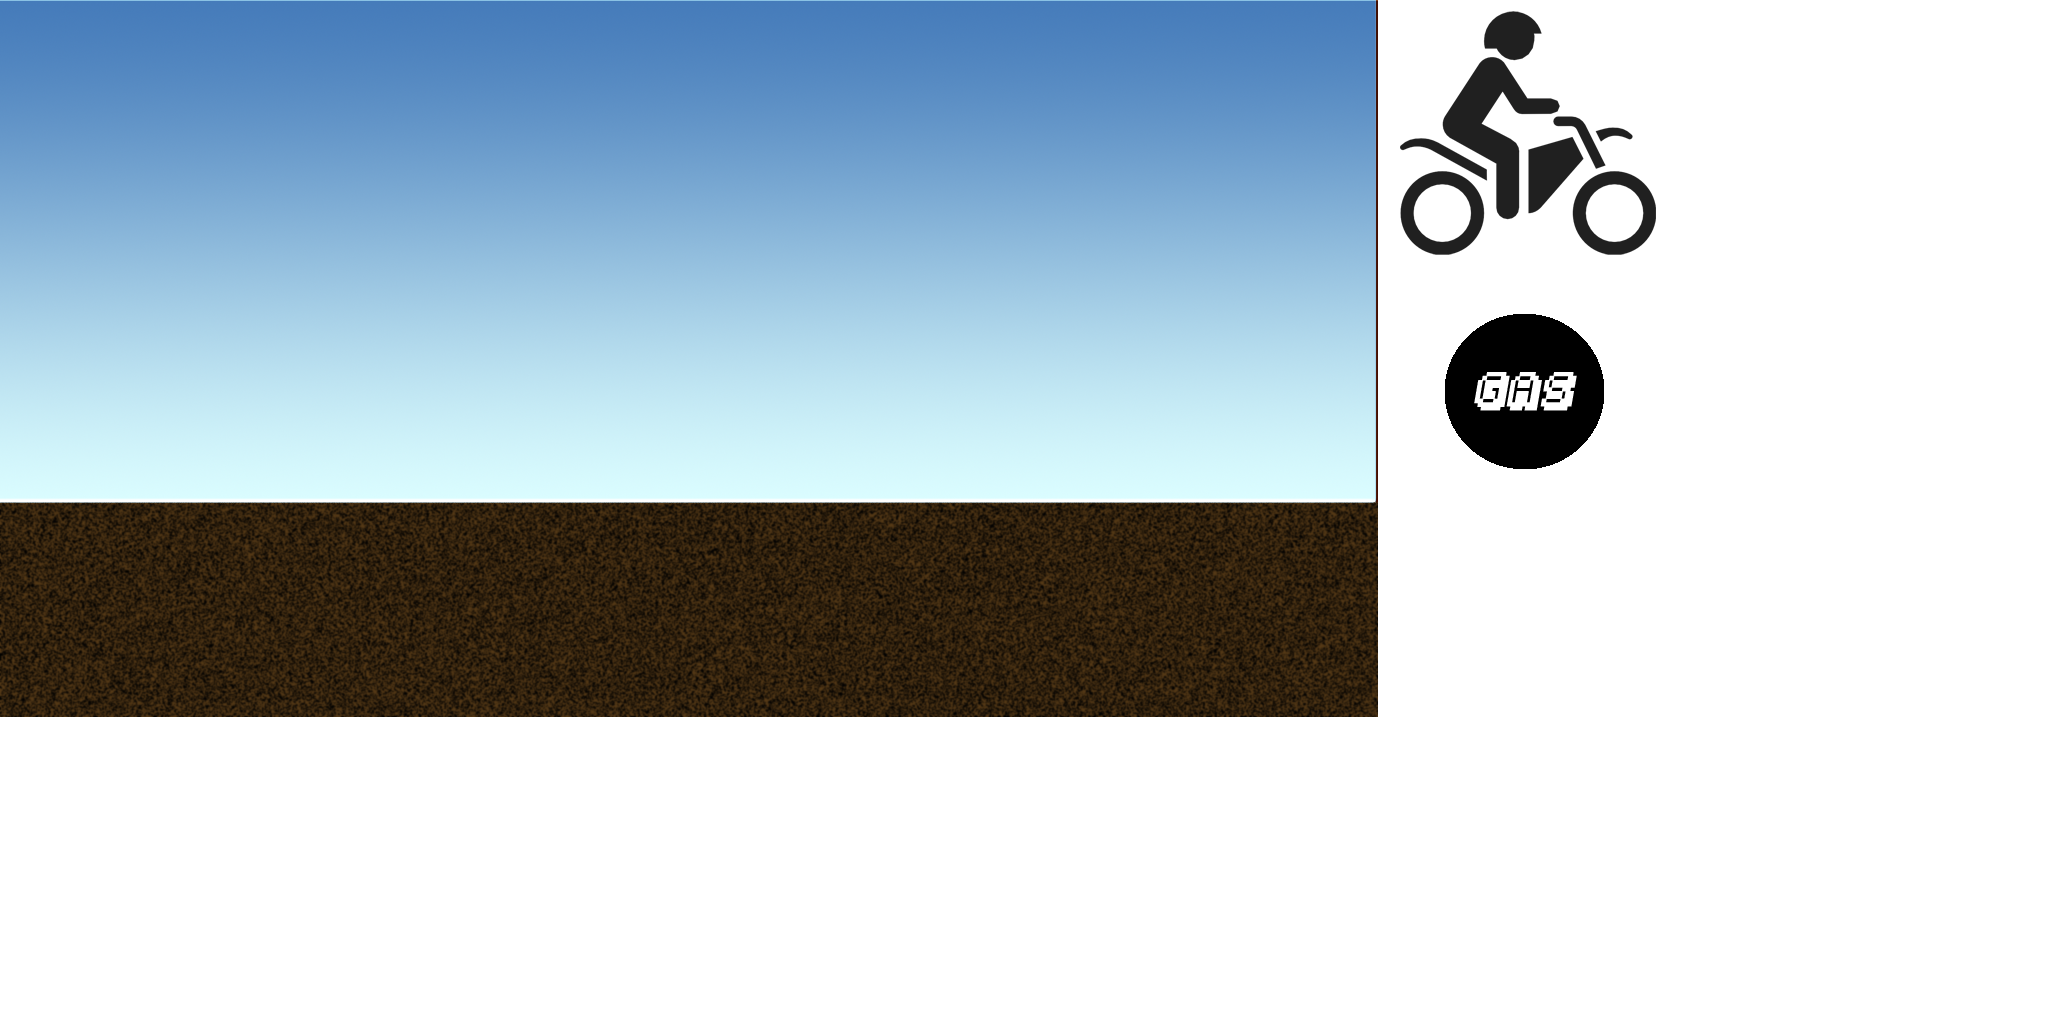
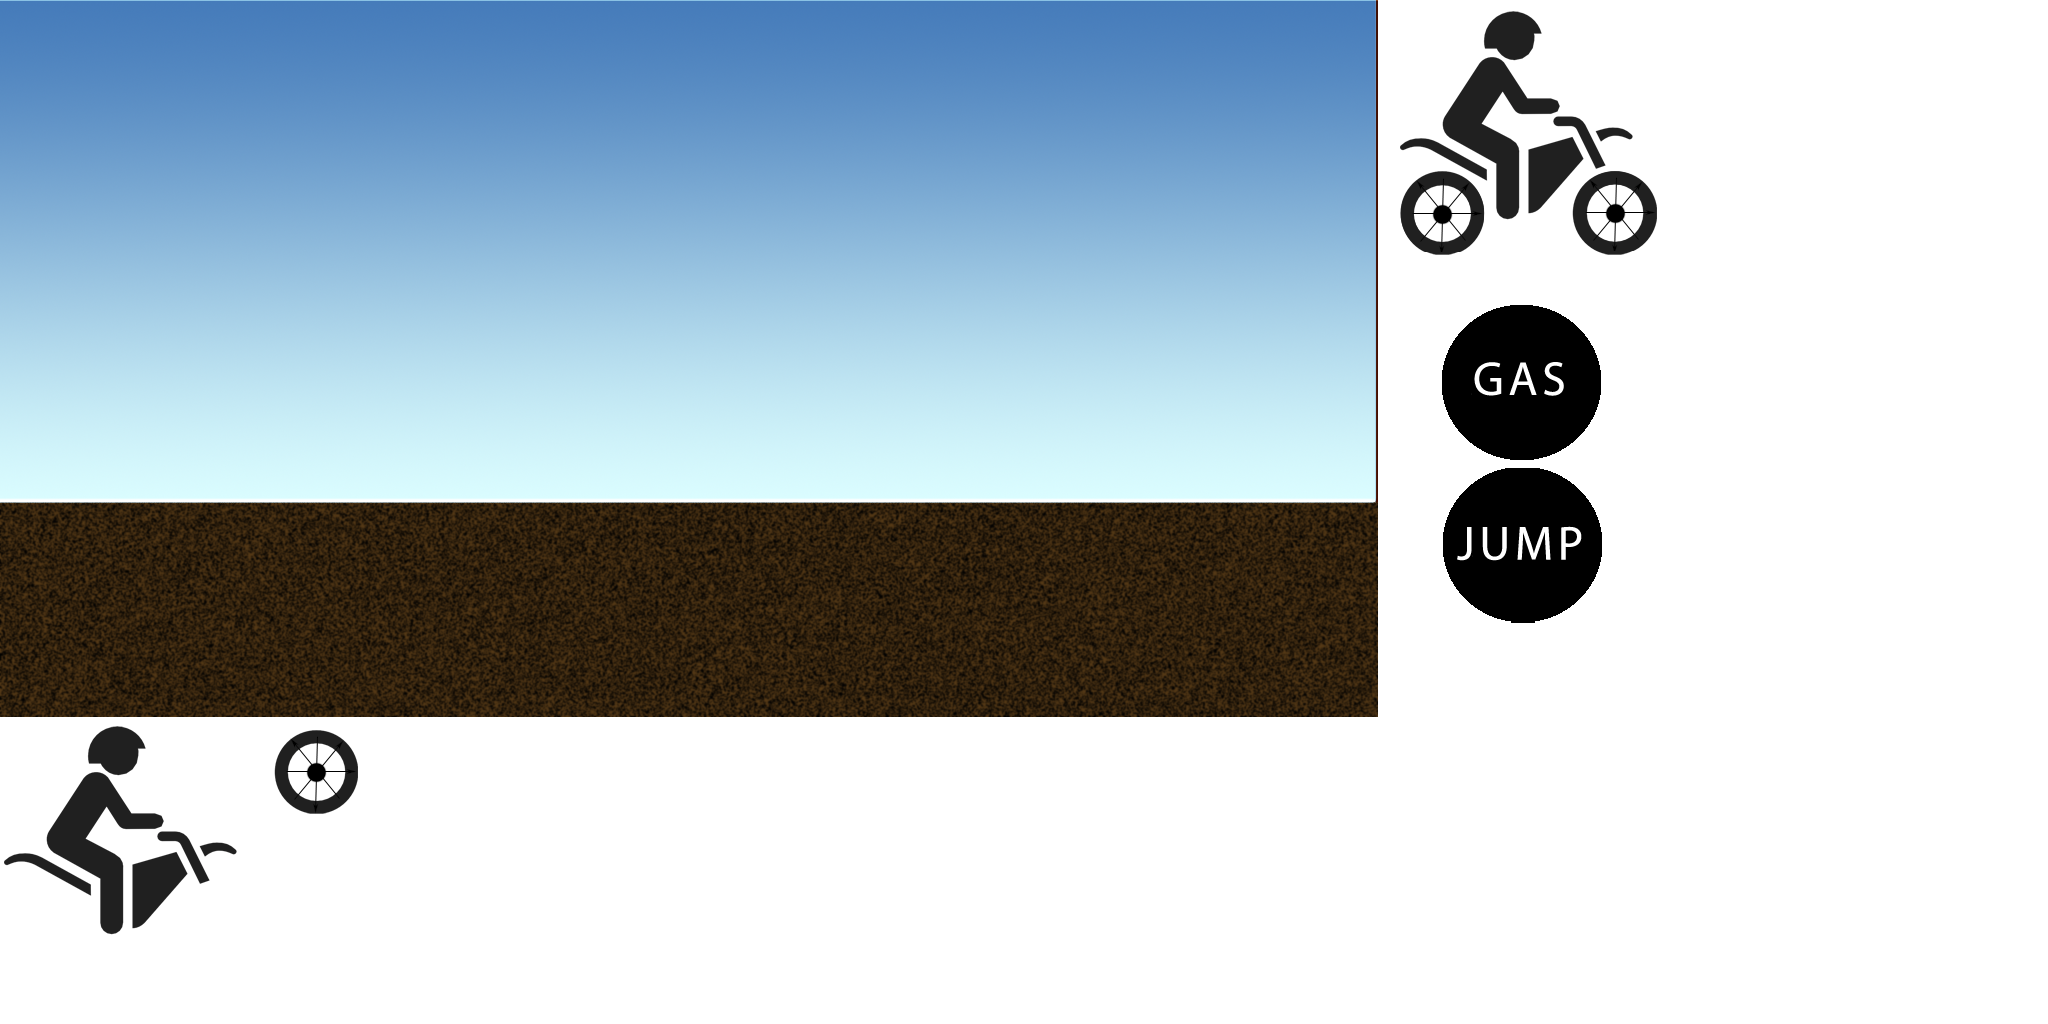
Adds new assets for dirtBike. Splits up dirtbike image into 3 sections (bike,front wheel, rear wheel) Adds animation of wheels when gas is pressed. Collision of bike with obstacles currently needs fixed.

diff --git a/vergegl/src/com/dbz/verge/microgames/DirtBikeMicroGame.java b/vergegl/src/com/dbz/verge/microgames/DirtBikeMicroGame.java
@@ -18,19 +18,23 @@ public class DirtBikeMicroGame extends MicroGame {
 	private int[] levelObstacles = { 0, 1, 2 };
 	
 	//bike movement y-range
-	private final int GROUND_LEVEL = 225;
+	private final int GROUND_LEVEL = 275;
 	private final int MAX_JUMP_HEIGHT = 600;
 	
 	//drop rate (in pixels) per frame
 	private float gravity = 12; 
+	private float rotation = 0;
 
 	//Bounds for obstacles
-	private Rectangle obstaclesBounds = new Rectangle(660,225,200,150);
+	private Rectangle obstaclesBounds = new Rectangle(660,225,200,160);
 	private Rectangle obstacles2Bounds = new Rectangle(275,225,50,200);
 	private Rectangle[] obstacles = {obstaclesBounds, obstacles2Bounds};
 	
 	// Bounds for dirt bike.
-	private Rectangle dirtBikeBounds = new Rectangle(0,225,256,256);
+	//private Rectangle dirtBikeBounds = new Rectangle(0,225,256,256);
+	private Rectangle dirtBikeRWheelBounds = new Rectangle(40,275,100,100);
+	private Rectangle dirtBikeFWheelBounds = new Rectangle(235,275,100,100);
+	private Rectangle dirtBikeFrameBounds = new Rectangle(0,260,250,220);
 	private Rectangle gasBounds = new Rectangle(1050,20,160,160);
 	private Rectangle jumpBounds = new Rectangle(0,20,160,160);
 	
@@ -57,7 +61,7 @@ public class DirtBikeMicroGame extends MicroGame {
 			Assets.playSound(Assets.hitSound);
 			return;
 		}
-  		if (dirtBikeBounds.lowerLeft.x > 1200) {
+  		if (dirtBikeRWheelBounds.lowerLeft.x > 1200) {
 			Assets.playSound(Assets.highJumpSound);
 			microGameState = MicroGameState.Won;
 			return;
@@ -65,13 +69,12 @@ public class DirtBikeMicroGame extends MicroGame {
   		
   		
         for(int j=0; j < levelObstacles[level-1]; j++){
-        	
-            if(collision(dirtBikeBounds, obstacles[j])){
+            if(collision(dirtBikeRWheelBounds, obstacles[j]) || collision(dirtBikeFWheelBounds, obstacles[j])){
             	microGameState = MicroGameState.Lost;
             	Assets.playSound(Assets.hitSound);
             	return;
-            	
             }
+
         }
 
 		// Gets all TouchEvents and stores them in a list.
@@ -117,32 +120,38 @@ public class DirtBikeMicroGame extends MicroGame {
         }
         
         if(hasJumped){
-        	if(dirtBikeBounds.lowerLeft.y <= MAX_JUMP_HEIGHT)
+        	if(dirtBikeFrameBounds.lowerLeft.y <= MAX_JUMP_HEIGHT)
         		jump();
         	else hasJumped = false; 
         }
         
-        if (!hasJumped && dirtBikeBounds.lowerLeft.y >= GROUND_LEVEL)
+        if (!hasJumped && dirtBikeFWheelBounds.lowerLeft.y >= GROUND_LEVEL)
         	applyGravity();
         
-        if(dirtBikeBounds.lowerLeft.y <= GROUND_LEVEL){
+        if(dirtBikeFWheelBounds.lowerLeft.y <= GROUND_LEVEL){
         	disableJumpButton = false;
         }
         
 	}
 	
 	public void moveDirtBike() {
-		dirtBikeBounds.lowerLeft.x += 16 * speedScalar[level-1] ;
+		dirtBikeFrameBounds.lowerLeft.x += 16 * speedScalar[level-1];
+		dirtBikeFWheelBounds.lowerLeft.x += 16 * speedScalar[level-1];
+		dirtBikeRWheelBounds.lowerLeft.x += 16 * speedScalar[level-1];
+		rotation -= 80;
 	}
 
-	
 	public void applyGravity(){
-		dirtBikeBounds.lowerLeft.y -= gravity;
+		dirtBikeFrameBounds.lowerLeft.y -= gravity;
+		dirtBikeFWheelBounds.lowerLeft.y -= gravity;
+		dirtBikeRWheelBounds.lowerLeft.y -= gravity;
 		
 	}
 	
 	public void jump(){
-		dirtBikeBounds.lowerLeft.y += 24;
+		dirtBikeFrameBounds.lowerLeft.y += 24;
+		dirtBikeFWheelBounds.lowerLeft.y += 24;
+		dirtBikeRWheelBounds.lowerLeft.y += 24;
 	}
 	
     // Checks for collision-based loss.
@@ -199,11 +208,15 @@ public class DirtBikeMicroGame extends MicroGame {
 	public void drawRunningObjects() {
 		// dirt bike and gas
 		batcher.beginBatch(Assets.dirtBikeBackground);
-		batcher.drawSprite(dirtBikeBounds, Assets.dirtBikeRegion);
-		batcher.drawSprite(gasBounds, Assets.gasPedalRegion);
-		batcher.drawSprite(jumpBounds, Assets.gasPedalRegion);
-		batcher.endBatch();
-		
+		//batcher.drawSprite(dirtBikeBounds, Assets.dirtBikeRegion);
+		batcher.drawSprite(dirtBikeFrameBounds, Assets.dirtBikeFrameRegion);
+		//batcher.drawSprite(dirtBikeRWheelBounds,10, Assets.dirtBikeWheelRegion);
+		batcher.drawSprite(dirtBikeRWheelBounds.lowerLeft.x,dirtBikeRWheelBounds.lowerLeft.y,dirtBikeRWheelBounds.width,dirtBikeRWheelBounds.height,rotation,Assets.dirtBikeWheelRegion);
+		//batcher.drawSprite(dirtBikeFWheelBounds, Assets.dirtBikeWheelRegion);
+		batcher.drawSprite(dirtBikeFWheelBounds.lowerLeft.x,dirtBikeFWheelBounds.lowerLeft.y,dirtBikeFWheelBounds.width,dirtBikeFWheelBounds.height,rotation,Assets.dirtBikeWheelRegion);
+		batcher.drawSprite(gasBounds, Assets.dirtBikeGasPedalRegion);
+		batcher.drawSprite(jumpBounds, Assets.dirtBikeJumpButtonRegion);
+		batcher.endBatch();	
 	}
 	
 	@Override
@@ -211,13 +224,10 @@ public class DirtBikeMicroGame extends MicroGame {
 		// Bounding Boxes
 		if(levelObstacles[level-1] != 0){
 			batcher.beginBatch(Assets.boundOverlay);
-		
-		for(int j=0; j < levelObstacles[level-1]; j++){
-			batcher.drawSprite(obstacles[j], Assets.boundOverlayRegion);
-		}
-		
-		batcher.endBatch();
+			    for(int j=0; j < levelObstacles[level-1]; j++){
+			        batcher.drawSprite(obstacles[j], Assets.boundOverlayRegion);
+		        }
+		    batcher.endBatch();
 		}
 	}
-	
 }

diff --git a/vergegl/src/com/dbz/verge/Assets.java b/vergegl/src/com/dbz/verge/Assets.java
@@ -108,7 +108,10 @@ public class Assets {
     public static Texture dirtBikeBackground;
     public static TextureRegion dirtBikeBackgroundRegion;
     public static TextureRegion dirtBikeRegion;
-    public static TextureRegion gasPedalRegion;
+    public static TextureRegion dirtBikeGasPedalRegion;
+    public static TextureRegion dirtBikeJumpButtonRegion;
+    public static TextureRegion dirtBikeFrameRegion;
+    public static TextureRegion dirtBikeWheelRegion;
     
     public static Texture toss;
     public static TextureRegion tossBallRegion;
@@ -227,7 +230,10 @@ public class Assets {
         dirtBikeBackground = new Texture(game,"DirtBikeScreen.png");
         dirtBikeBackgroundRegion = new TextureRegion(dirtBikeBackground,0,0,1300,700);
         dirtBikeRegion = new TextureRegion(dirtBikeBackground, 1400,1,256,256);
-        gasPedalRegion = new TextureRegion(dirtBikeBackground,1440,300,160,160);
+        dirtBikeGasPedalRegion = new TextureRegion(dirtBikeBackground,1440,300,160,160);
+        dirtBikeJumpButtonRegion = new TextureRegion(dirtBikeBackground,1440,460,160,160);
+        dirtBikeFrameRegion = new TextureRegion(dirtBikeBackground,0,720,250,220);
+        dirtBikeWheelRegion = new TextureRegion(dirtBikeBackground,270,720,100,100);
         
         toss = new Texture(game,"toss.png");
         tossBallRegion = new TextureRegion(toss, 0,800,80,80);
